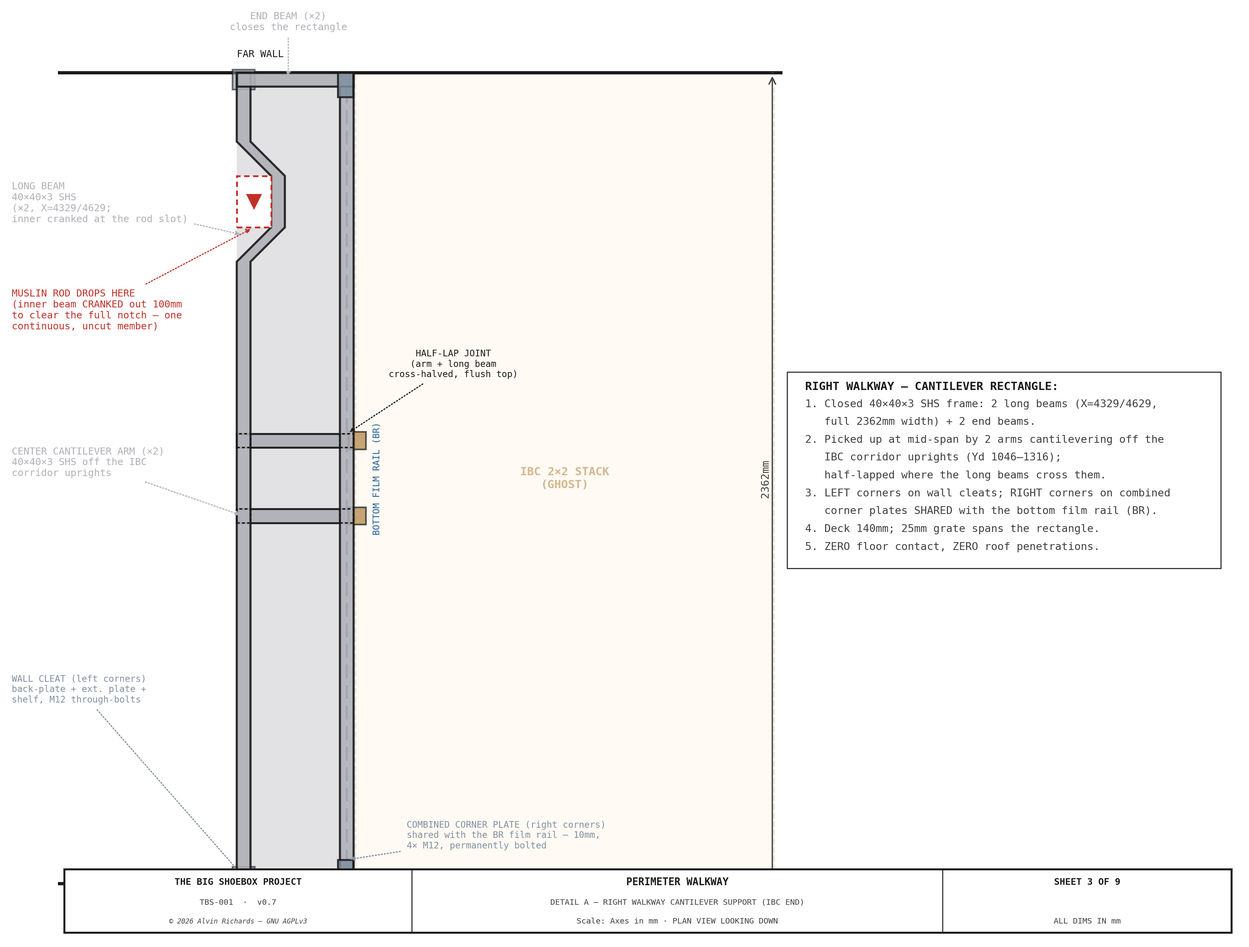
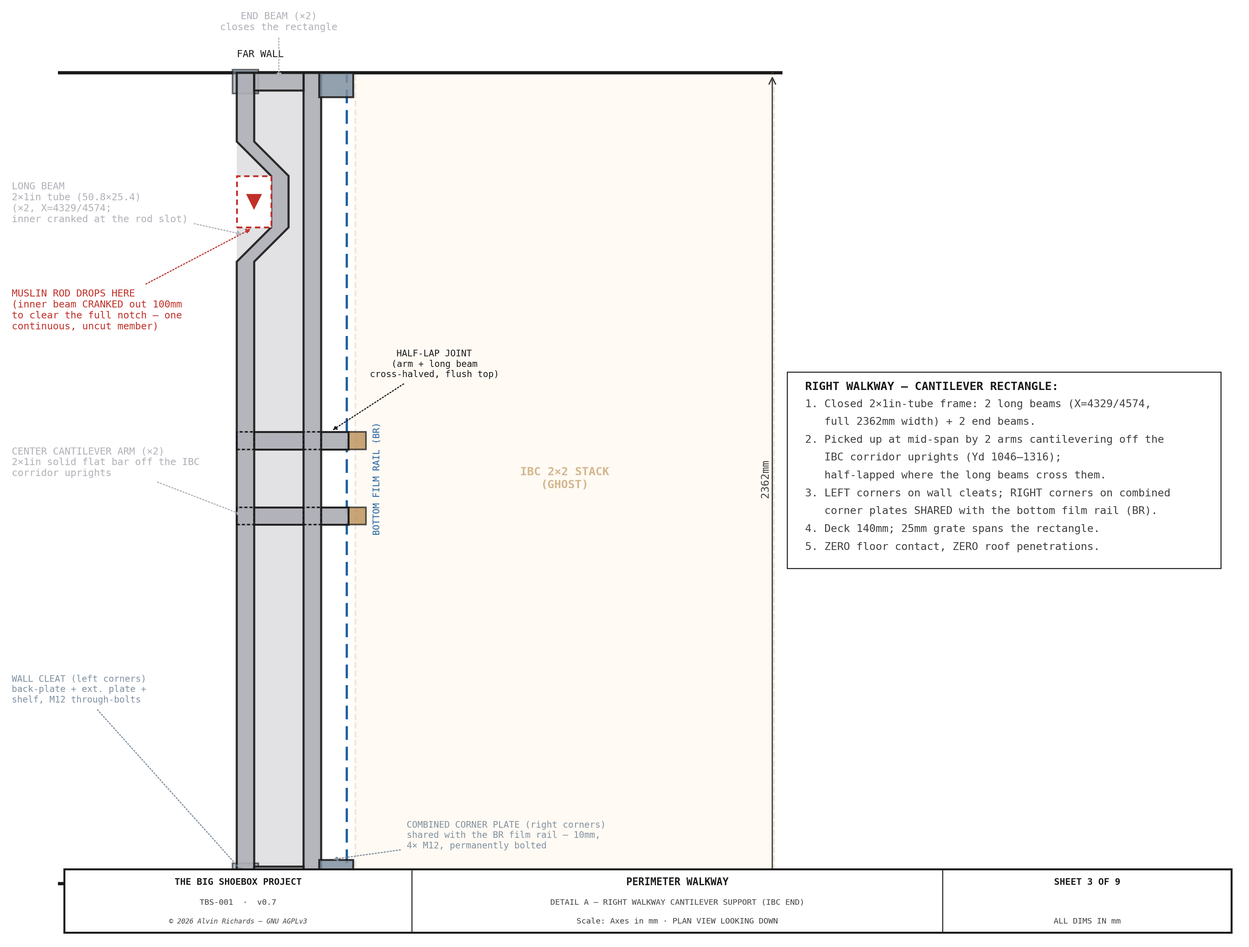
walkway blueprint Phase 1.1: promote RWK_* to tbs_constants + fix sheet3 drift
Move the 26-constant right-walkway RWK_* family out of generate_sketchup_model.py
into tbs_constants.py so the 2D fab drawings dimension from the same source as the
3D builder.  Models regenerate byte-identical (source_hash unchanged, no re-send);
trimmed the 5 now-unused model imports.  interference-report re-stamped (geometry
byte-identical: 12 interferences / 586 solids unchanged, only routing-sha bumps).

Repointing generate_walkway_diagram.py at the shared constants surfaced + fixed
fab-blocking drift on sheet 3 (right-walkway plan), all verified vs the live model:
  - beam section: '40x40x3 SHS' -> 2x1in tube (long/end) + 2x1in solid flat bar (arm), 50.8x25.4
  - deck width:   300 -> 245 (the F1-shortened right deck; WALKWAY_RIGHT_W)
  - beam layout:  outer beam flush-right-inboard at X4574 (RWK_BEARER_XS), end beams
                  butted BETWEEN the long beams (X4379-4523) — matches the model
  - sheet 1 RIGHT-WALKWAY label + overview note reconciled to 245 / 2x1in-tube

diff --git a/src/generators/generate_walkway_diagram.py b/src/generators/generate_walkway_diagram.py
@@ -18,8 +18,9 @@ Sheet 2 — Cross-section + bolt pattern (near walkway bracket):
   View B: Plate face showing triangular 3× M12 bolt pattern.
 
 Sheet 3 — Detail A: Right walkway cantilever support (IBC end)  [rev 12]:
-  300mm wide, same as near/far.  Plan view of the closed 40×40×3 SHS
-  rectangle (2 long beams at X=4329/4629 running the full container width +
+  245mm wide (F1-shortened from the standard 300 so the outer beam lands on the
+  combined-plate seat).  Plan view of the closed 2×1in-tube (50.8×25.4)
+  rectangle (2 long beams at X=4329/4574 running the full container width +
   2 short end beams), picked up at mid-span by 2 arms cantilevering off the
   IBC corridor uprights (half-lapped where the long beams cross), on wall
   cleats at the left corners and combined corner plates (shared with the
@@ -59,7 +60,7 @@ from matplotlib.patches import Rectangle, Circle, Polygon
 import os
 from tbs_title_block import title_block
 from tbs_drawing import draw_dim_h, draw_dim_v, leader, draw_notes, draw_legend
-from tbs_constants import C_LEN, C_WID, PROC_TRAY_X_L, PROC_TRAY_X_R, PROC_TRAY_W, PROC_TRAY_D, PROC_TRAY_YD_NEAR, PROC_TRAY_YD_FAR, PROC_TRAY_RIM, WALKWAY_W, WALKWAY_H, WALKWAY_GRATE_T, WALKWAY_BRACKET_H, WALKWAY_BRACKET_UPPER_BOLT_Z, WALKWAY_BRACKET_T, WALKWAY_BRACKET_SPACING, PIVOT_X, PIVOT_YD, SWING_LOCK_DEG, PANEL_CUT_YD, IBC_COL_X, IBC_W, CORRIDOR_YD_NEAR, CORRIDOR_YD_FAR, IBC_FRAME_RHS, RAIL_X_R, WALKWAY_NEAR_YD, WALKWAY_FAR_YD, WALKWAY_LEFT_X, WALKWAY_RIGHT_X, PROC_OPEN_X_L, PROC_OPEN_X_R, PROC_OPEN_YD_N, PROC_OPEN_YD_F, PROC_OPEN_AREA, PANEL_FLOOR_GAP, LEFT_WK_CANT_LEG_X, LEFT_WK_CANT_LEG_YDS, LEFT_WK_CANT_POST, LEFT_WK_CANT_POST_W, LEFT_WK_CANT_FOOT, LEFT_WK_CANT_FOOT_X0, LEFT_WK_CANT_FOOT_BOLT_N, LEFT_WK_CANT_FOOT_BOLT_DX, LEFT_WK_CANT_FOOT_BOLT_DY, LEFT_WK_CANT_ARM_Z0, LEFT_WK_CANT_ARM_W, LEFT_WK_CANT_ARM_W_WIDE, LEFT_WK_CANT_STD_REACH, LEFT_WK_CANT_WIDE_REACH, SPRAY_BAR_Z_BOT, SPRAY_BAR_Z_TOP, WALKWAY_NEAR_WIDE_W, WALKWAY_NEAR_WIDE_X_L, WALKWAY_NEAR_WIDE_X_R, WALKWAY_MAX_OVERHANG, WALKWAY_LEFT_WIDE_W, WALKWAY_LEFT_WIDE_YD_L, WALKWAY_LEFT_WIDE_YD_R, WALKWAY_WIDE_BRACKET_T, WALKWAY_WIDE_BRACKET_H, WALKWAY_MUSLIN_NOTCH_DX, WALKWAY_MUSLIN_NOTCH_DY, WALKWAY_MUSLIN_NOTCH_YD0, WALKWAY_MUSLIN_NOTCH_L_X0, WALKWAY_MUSLIN_NOTCH_R_X0, SPRAY_BAR_SLIT_W, EP_X, EP_W, BA_X, BA_W, EVAP_W, EVAP_D, EVAP_STOW_X, EVAP_STOW_YD, DIAGRAMS_DIR
+from tbs_constants import C_LEN, C_WID, PROC_TRAY_X_L, PROC_TRAY_X_R, PROC_TRAY_W, PROC_TRAY_D, PROC_TRAY_YD_NEAR, PROC_TRAY_YD_FAR, PROC_TRAY_RIM, WALKWAY_W, WALKWAY_H, WALKWAY_GRATE_T, WALKWAY_BRACKET_H, WALKWAY_BRACKET_UPPER_BOLT_Z, WALKWAY_BRACKET_T, WALKWAY_BRACKET_SPACING, PIVOT_X, PIVOT_YD, SWING_LOCK_DEG, PANEL_CUT_YD, IBC_COL_X, IBC_W, CORRIDOR_YD_NEAR, CORRIDOR_YD_FAR, IBC_FRAME_RHS, RAIL_X_R, WALKWAY_NEAR_YD, WALKWAY_FAR_YD, WALKWAY_LEFT_X, WALKWAY_RIGHT_X, WALKWAY_RIGHT_W, RWK_X_L, RWK_X_R, RWK_X_UP, RWK_BEARER_W, PROC_OPEN_X_L, PROC_OPEN_X_R, PROC_OPEN_YD_N, PROC_OPEN_YD_F, PROC_OPEN_AREA, PANEL_FLOOR_GAP, LEFT_WK_CANT_LEG_X, LEFT_WK_CANT_LEG_YDS, LEFT_WK_CANT_POST, LEFT_WK_CANT_POST_W, LEFT_WK_CANT_FOOT, LEFT_WK_CANT_FOOT_X0, LEFT_WK_CANT_FOOT_BOLT_N, LEFT_WK_CANT_FOOT_BOLT_DX, LEFT_WK_CANT_FOOT_BOLT_DY, LEFT_WK_CANT_ARM_Z0, LEFT_WK_CANT_ARM_W, LEFT_WK_CANT_ARM_W_WIDE, LEFT_WK_CANT_STD_REACH, LEFT_WK_CANT_WIDE_REACH, SPRAY_BAR_Z_BOT, SPRAY_BAR_Z_TOP, WALKWAY_NEAR_WIDE_W, WALKWAY_NEAR_WIDE_X_L, WALKWAY_NEAR_WIDE_X_R, WALKWAY_MAX_OVERHANG, WALKWAY_LEFT_WIDE_W, WALKWAY_LEFT_WIDE_YD_L, WALKWAY_LEFT_WIDE_YD_R, WALKWAY_WIDE_BRACKET_T, WALKWAY_WIDE_BRACKET_H, WALKWAY_MUSLIN_NOTCH_DX, WALKWAY_MUSLIN_NOTCH_DY, WALKWAY_MUSLIN_NOTCH_YD0, WALKWAY_MUSLIN_NOTCH_L_X0, WALKWAY_MUSLIN_NOTCH_R_X0, SPRAY_BAR_SLIT_W, EP_X, EP_W, BA_X, BA_W, EVAP_W, EVAP_D, EVAP_STOW_X, EVAP_STOW_YD, DIAGRAMS_DIR
 from tbs_constants import DIAGRAM_DPI
 
 # ── Palette ───────────────────────────────────────────────────────────────────
@@ -218,7 +219,7 @@ def sheet1():
         if name == "LEFT":
             lbl = f"LEFT WALKWAY\n{int(length)}\u00d7{WALKWAY_W}mm\nREMOVABLE LIFT-OUT"
         elif name == "RIGHT":
-            lbl = f"RIGHT WALKWAY\n{int(length)}\u00d7{WALKWAY_W}mm\nCANTILEVER"
+            lbl = f"RIGHT WALKWAY\n{int(length)}\u00d7{WALKWAY_RIGHT_W}mm\nCANTILEVER"
         elif name == "NEAR":
             lbl = f"NEAR WALKWAY\n{int(length)}\u00d7{WALKWAY_W}mm\n(WIDENED TO {WALKWAY_NEAR_WIDE_W}mm\nAT EP/BATT ZONE)"
         else:
@@ -496,7 +497,7 @@ def sheet1():
         f"   seam placed away from the bump shoulders (molded GRP max 3'\u00d710').",
         f"3. Near/far: wall-cantilevered brackets ({WALKWAY_BRACKET_T}mm gussets) at {WALKWAY_BRACKET_SPACING}mm centers.",
         f"   Start at X={LXR} (butt joint), clear of the door-end panel swing sweep.",
-        f"4. Right: CANTILEVER RECTANGLE \u2014 closed 40\u00d740 SHS frame on 2 arms off the IBC uprights + combined corner plates.",
+        f"4. Right: CANTILEVER RECTANGLE \u2014 closed 2\u00d71in-tube frame on 2 arms off the IBC uprights + combined corner plates.",
         f"5. Left: REMOVABLE LIFT-OUT \u2014 5 FLOOR-LEG CANTILEVER brackets on bare floor (X140, outside tray),",
         f"   arms reach the grate inner edge (X={LXR}); 3 extend to X770 on the drum-exit punch-out. See sheets 5/6.",
         f"6. ZERO tray contact \u2014 all supports outside or above tray. Open area: {PROC_OPEN_AREA:.1f} m\u00b2.",
@@ -1088,7 +1089,7 @@ def sheet2():
 # SHEET 3 — Detail A: Right Walkway Cantilever Support (IBC End)  [rev 12]
 #
 # PLAN view (looking down): X horizontal, Yd vertical.  The right walkway is a
-# closed 40×40 SHS rectangle (2 long beams at X=4329/4629 running full width +
+# closed 2×1in-tube rectangle (2 long beams at X=4329/4574 running full width +
 # 2 short end beams) picked up at mid-span by 2 arms cantilevering off the IBC
 # corridor uprights, on wall cleats at the left corners and combined corner
 # plates (shared with the bottom film rail) at the right corners.  Replaces the
@@ -1101,12 +1102,12 @@ def sheet3():
     """
 
     # ── Geometry ─────────────────────────────────────────────────────────────
-    SHS       = 40                            # 40×40×3 SHS section
-    WK_L_X    = WALKWAY_RIGHT_X               # 4329 — left long beam
-    WK_R_X    = WALKWAY_RIGHT_X + WALKWAY_W   # 4629 — right long beam
+    SHS       = RWK_BEARER_W                  # 50.8 — 2×1in section face shown in plan (long beam, end beam & arm all present their 2in face top-down)
+    WK_L_X    = RWK_X_L                       # 4329 — inner long beam / deck left edge
+    WK_R_X    = RWK_X_R                       # 4574 — outer long beam / deck right edge (F1-shortened; lands on the combined-plate seat)
     WALL_X    = RAIL_X_R                      # 4649 — right side-wall station (film rail / combined plate)
-    UP_X0     = IBC_COL_X - 20                # 4654 — deep-box FRONT upright (arm clamps here; reconciled from tote-col 4674)
-    ARM_X     = IBC_COL_X - 20                # 4654 — arm root station (= RWK_X_UP; reconciled from 4734)
+    UP_X0     = RWK_X_UP                      # 4654 — deep-box FRONT upright (arm clamps here)
+    ARM_X     = RWK_X_UP                      # 4654 — arm root station
     UP_YDS    = [(CORRIDOR_YD_NEAR, CORRIDOR_YD_NEAR + IBC_FRAME_RHS),  # near upright 1046–1096
                  (CORRIDOR_YD_FAR - IBC_FRAME_RHS, CORRIDOR_YD_FAR)]     # far  upright 1266–1316
     ARM_YDS   = [yc + IBC_FRAME_RHS / 2 for (yc, _) in UP_YDS]           # arm centerlines
@@ -1156,7 +1157,7 @@ def sheet3():
     # ── Closed SHS rectangle: 2 long beams + 2 end beams ─────────────────────
     # Outer long beam — straight; inner long beam — CRANKED outboard around the muslin-drop rod
     # slot (mirrors the model's _rwk_inner_beam_cranked: jog = notch depth, 100mm angled ramps).
-    ax.add_patch(Rectangle(((WK_R_X), (0)), (SHS), (C_WID),
+    ax.add_patch(Rectangle(((WK_R_X - SHS), (0)), (SHS), (C_WID),
                             fc=C_STEEL, ec=C_OUT, lw=1.3, zorder=8, alpha=0.9))
     cN0 = WALKWAY_MUSLIN_NOTCH_YD0
     cN1 = WALKWAY_MUSLIN_NOTCH_YD0 + WALKWAY_MUSLIN_NOTCH_DY
@@ -1167,8 +1168,8 @@ def sheet3():
     inner_beam = [(xi, 0), (xi, cY0), (xi + cDX, cN0), (xi + cDX, cN1), (xi, cY1), (xi, C_WID),
                   (xo, C_WID), (xo, cY1), (xo + cDX, cN1), (xo + cDX, cN0), (xo, cY0), (xo, 0)]
     ax.add_patch(Polygon(inner_beam, closed=True, fc=C_STEEL, ec=C_OUT, lw=1.3, zorder=8, alpha=0.9))
-    for ey in [0, C_WID - SHS]:
-        ax.add_patch(Rectangle(((WK_L_X), (ey)), ((WK_R_X + SHS) - WK_L_X), (SHS),
+    for ey in [0, C_WID - SHS]:   # end beams butt BETWEEN the long beams (inner faces), matching the model
+        ax.add_patch(Rectangle(((WK_L_X + SHS), (ey)), ((WK_R_X - SHS) - (WK_L_X + SHS)), (SHS),
                                 fc=C_STEEL, ec=C_OUT, lw=1.3, zorder=8, alpha=0.9))
 
     # Muslin-rod drop slot — vacated by the crank (clear vertical passage at the tray edge)
@@ -1181,7 +1182,7 @@ def sheet3():
 
     leader(ax, (WK_L_X + SHS / 2), (C_WID * 0.80),
            (GUT_X - 150), (C_WID * 0.84),
-           f"LONG BEAM\n40×40×3 SHS\n(×2, X={WK_L_X}/{WK_R_X};\ninner cranked at the rod slot)",
+           f"LONG BEAM\n2×1in tube (50.8×25.4)\n(×2, X={WK_L_X}/{WK_R_X};\ninner cranked at the rod slot)",
            color=C_STEEL, fs=6, ha="left", va="center", arrow_style="-|>", font=FONT)
     leader(ax, ((WK_L_X + WK_R_X) / 2), (C_WID - SHS / 2),
            ((WK_L_X + WK_R_X) / 2), (C_WID + 120),
@@ -1194,12 +1195,12 @@ def sheet3():
                                 fc=C_IBC, ec=C_OUT, lw=1.0, zorder=6, alpha=0.7))
         ax.add_patch(Rectangle(((WK_L_X), (ay - SHS / 2)), (ARM_X - WK_L_X), (SHS),
                                 fc=C_STEEL, ec=C_OUT, lw=1.2, zorder=7, alpha=0.95))
-        for bx in [WK_L_X, WK_R_X]:
+        for bx in [WK_L_X, WK_R_X - SHS]:   # half-lap boxes on the two long beams (inner flush-left, outer flush-right)
             ax.add_patch(Rectangle(((bx), (ay - SHS / 2)), (SHS), (SHS),
                                     fc="none", ec=C_OUT, lw=0.9, ls=(0, (2, 1.5)), zorder=9))
     leader(ax, (WK_L_X + SHS / 2), (ARM_YDS[0]),
            (GUT_X - 150), (C_WID * 0.52),
-           "CENTER CANTILEVER ARM (×2)\n40×40×3 SHS off the IBC\ncorridor uprights",
+           "CENTER CANTILEVER ARM (×2)\n2×1in solid flat bar off the IBC\ncorridor uprights",
            color=C_STEEL, fs=6, ha="left", va="center", arrow_style="-|>", font=FONT)
     leader(ax, (WK_R_X + SHS / 2), (ARM_YDS[1] + SHS / 2),
            (WK_R_X + 330), (ARM_YDS[1] + 180),
@@ -1233,7 +1234,7 @@ def sheet3():
 
     # ── Dimensions ───────────────────────────────────────────────────────────
     draw_dim_h(ax, (WK_L_X), (WK_R_X), (-90),
-               f"{WALKWAY_W}mm", offset=(9), fs=7, above=False, font=FONT)
+               f"{WALKWAY_RIGHT_W}mm", offset=(9), fs=7, above=False, font=FONT)
     # Label to the LEFT (right=False) so it doesn't overhang X_HI — otherwise the dim text
     # pokes past the axes box and the (transAxes) title block reads narrower than the crop.
     draw_dim_v(ax, (PLAN_X_R - 25), (0), (C_WID),
@@ -1242,7 +1243,7 @@ def sheet3():
     # ── Notes ────────────────────────────────────────────────────────────────
     notes = [
         "RIGHT WALKWAY — CANTILEVER RECTANGLE:",
-        f"1. Closed 40×40×3 SHS frame: 2 long beams (X={WK_L_X}/{WK_R_X},",
+        f"1. Closed 2×1in-tube frame: 2 long beams (X={WK_L_X}/{WK_R_X},",
         f"   full {C_WID}mm width) + 2 end beams.",
         "2. Picked up at mid-span by 2 arms cantilevering off the",
         f"   IBC corridor uprights (Yd {CORRIDOR_YD_NEAR}–{CORRIDOR_YD_FAR});",

diff --git a/src/models/generate_sketchup_model.py b/src/models/generate_sketchup_model.py
@@ -38,7 +38,7 @@ import argparse
 import contextlib
 
 sys.path.insert(0, os.path.join(os.path.dirname(__file__), "..", "generators"))
-from tbs_constants import C_LEN, C_WID, C_HGT, WALL_T, PROC_TRAY_X_L, PROC_TRAY_X_R, PROC_TRAY_YD_NEAR, PROC_TRAY_YD_FAR, PROC_TRAY_RIM, PROC_TRAY_FLOOR_Z_LOW, tray_floor_z, WALKWAY_W, WALKWAY_H, WALKWAY_GRATE_T, WALKWAY_FAR_YD, WALKWAY_RIGHT_X, WALKWAY_RIGHT_W, WALKWAY_LEFT_X, LEFT_WK_CANT_ARM_Z0, WALKWAY_BRACKET_T, WALKWAY_BRACKET_H, CONTAINER_RIB_SPACING, WALKWAY_NEAR_WIDE_W, WALKWAY_NEAR_WIDE_X_L, WALKWAY_NEAR_WIDE_X_R, WALKWAY_LEFT_WIDE_W, WALKWAY_LEFT_WIDE_YD_L, WALKWAY_LEFT_WIDE_YD_R, CORRIDOR_YD_NEAR, CORRIDOR_YD_FAR, PH_X, PH_H, PH_D, FP_X_L, FP_X_R, FP_H, FP_Y, RAIL_X_L, RAIL_X_R, RAIL_OFF_BOT, FP_RAIL_WEB, FP_RAIL_FLANGE, FP_RAIL_BUILD_BOT, FP_RAIL_GUIDE_GAP, FP_RAIL_ZC_BOT, FP_RAIL_ZC_TOP, FP_FILM_TOP, BAY_FRONT_X, BAY_BACK_X, BAY_WALL_T, PANEL_CENTER_T, PANEL_CORNER_T, PANEL_FLOOR_GAP, PANEL_FAN_BAND_Z, PANEL_CORNER_YD_L, PANEL_CORNER_YD_R, PIVOT_X, PIVOT_YD, SWING_LOCK_DEG, PANEL_CUT_YD, FAR_STRIP_YD0, PIVOT_POST_OD, DRUM_CAGE_X0, DRUM_CAGE_X1, DRUM_CAGE_YD_L, DRUM_CAGE_YD_R, WALKWAY_NEAR_LIFTOUT_X_R, BB_OD, BB_H, PUMP_H_HI, EQPANEL_X, EQPANEL_T, EQPANEL_YD, EQPANEL_YD_SPAN, IBC_COL_X, IBC_W, IBC_D, IBC_H_1000, IBC_PALLET_H, IBC_BOTTLE_INSET, BLUE_IBC_Y, BROWN_IBC_Y, IBC_FAR_Y, WASTE_IBC_Y, IBC_FRAME_RHS, IBC_FRONT_BAR_D, IBC_FOOT_PLATE, IBC_FOOT_PLATE_T, IBC_FOOT_BOLT_PCD, FP_CORNER_SEAT_PLATE_W, FP_CORNER_SEAT_PLATE_T, FP_CORNER_SEAT_PROJ, FP_CORNER_SEAT_T, DRUM_CX, DRUM_CY, DRUM_R, DRUM_H_LT, LT_HOUSING_R, LT_HOUSING_T, LT_DRUM_OR, LT_DRUM_T, LT_CAP_T, LT_OPENING_DEG, WALKWAY_MUSLIN_NOTCH_DY, WALKWAY_MUSLIN_NOTCH_YD0, WALKWAY_MUSLIN_NOTCH_L_X0, WALKWAY_MUSLIN_NOTCH_R_X0, WALKWAY_MUSLIN_NOTCH_R_X1, EP_X, EP_W, EP_H_LO, EP_H_HI, ENCL_SHELL_D, PWR_PANEL_X, PWR_PANEL_W, PWR_PANEL_H, PWR_PANEL_Z, SOLAR_PANEL_L, SOLAR_PANEL_W, SOLAR_PANEL_T, SOLAR_N, SOLAR_TILT_DEG, SOLAR_GAP, SOLAR_ARRAY_X, SOLAR_ARRAY_YD, SOLAR_ARRAY_Z, SHELF_X_L, SHELF_X_R, SHELF_W, SHELF_H, SHELF_T, SHELF_DEPTH, SHELF_YD_NEAR, SHELF_YD_FAR, SHELF_STOW_TOP_Z, PULL_CORD_BOTTOM_Z, EVAP_W, EVAP_D, EVAP_H, EVAP_DUCT_X, EVAP_DUCT_Z, EVAP_DUCT_D, INVERTER_X, INVERTER_Z, INVERTER_W, INVERTER_H, INVERTER_D, FAN_DIAM, FAN_BODY_D, FAN_A_YD, FAN_A_H, FAN_B_YD, FAN_B_H, DUCT_DEPTH, DUCT_HEIGHT, BV05_X, TAP_X, TAP_Z, TAP_PIPE_OD, PUMP_PIPE_OD, SPRAY_BAR_FEED_Z, PROC_TRAY_DRAIN_X, PROC_TRAY_DRAIN_YD, PROC_TRAY_SUMP_Z, PWP_FILTER_X1, PWP_FILTER_X2, PWP_FILTER_X3, PWP_FILTER_TOP_Z, PWP_FILTER_YD, PWP_P02_X, PWP_SV01_X, PWP_WAIST_Z, PWP_SV01_Z, PWP_PANEL_X0, PWP_PANEL_X1, PWP_PANEL_Z0, PWP_SROW_Z0, PWP_ACC2_X, PWP_ACC2_Z0
+from tbs_constants import C_LEN, C_WID, C_HGT, WALL_T, PROC_TRAY_X_L, PROC_TRAY_X_R, PROC_TRAY_YD_NEAR, PROC_TRAY_YD_FAR, PROC_TRAY_RIM, PROC_TRAY_FLOOR_Z_LOW, tray_floor_z, WALKWAY_W, WALKWAY_H, WALKWAY_GRATE_T, WALKWAY_FAR_YD, WALKWAY_RIGHT_X, WALKWAY_RIGHT_W, WALKWAY_LEFT_X, WALKWAY_BRACKET_T, WALKWAY_BRACKET_H, CONTAINER_RIB_SPACING, WALKWAY_NEAR_WIDE_W, WALKWAY_NEAR_WIDE_X_L, WALKWAY_NEAR_WIDE_X_R, WALKWAY_LEFT_WIDE_W, WALKWAY_LEFT_WIDE_YD_L, WALKWAY_LEFT_WIDE_YD_R, PH_X, PH_H, PH_D, FP_X_L, FP_X_R, FP_H, FP_Y, RAIL_X_L, RAIL_X_R, RAIL_OFF_BOT, FP_RAIL_WEB, FP_RAIL_FLANGE, FP_RAIL_BUILD_BOT, FP_RAIL_GUIDE_GAP, FP_RAIL_ZC_BOT, FP_RAIL_ZC_TOP, FP_FILM_TOP, BAY_FRONT_X, BAY_BACK_X, BAY_WALL_T, PANEL_CENTER_T, PANEL_CORNER_T, PANEL_FLOOR_GAP, PANEL_FAN_BAND_Z, PANEL_CORNER_YD_L, PANEL_CORNER_YD_R, PIVOT_X, PIVOT_YD, SWING_LOCK_DEG, PANEL_CUT_YD, FAR_STRIP_YD0, PIVOT_POST_OD, DRUM_CAGE_X0, DRUM_CAGE_X1, DRUM_CAGE_YD_L, DRUM_CAGE_YD_R, WALKWAY_NEAR_LIFTOUT_X_R, BB_OD, BB_H, PUMP_H_HI, EQPANEL_X, EQPANEL_T, EQPANEL_YD, EQPANEL_YD_SPAN, IBC_COL_X, IBC_W, IBC_D, IBC_H_1000, IBC_PALLET_H, IBC_BOTTLE_INSET, BLUE_IBC_Y, BROWN_IBC_Y, IBC_FAR_Y, WASTE_IBC_Y, IBC_FRAME_RHS, IBC_FRONT_BAR_D, IBC_FOOT_PLATE, IBC_FOOT_PLATE_T, IBC_FOOT_BOLT_PCD, FP_CORNER_SEAT_PLATE_W, FP_CORNER_SEAT_PLATE_T, FP_CORNER_SEAT_PROJ, FP_CORNER_SEAT_T, DRUM_CX, DRUM_CY, DRUM_R, DRUM_H_LT, LT_HOUSING_R, LT_HOUSING_T, LT_DRUM_OR, LT_DRUM_T, LT_CAP_T, LT_OPENING_DEG, WALKWAY_MUSLIN_NOTCH_DY, WALKWAY_MUSLIN_NOTCH_YD0, WALKWAY_MUSLIN_NOTCH_L_X0, WALKWAY_MUSLIN_NOTCH_R_X0, WALKWAY_MUSLIN_NOTCH_R_X1, EP_X, EP_W, EP_H_LO, EP_H_HI, ENCL_SHELL_D, PWR_PANEL_X, PWR_PANEL_W, PWR_PANEL_H, PWR_PANEL_Z, SOLAR_PANEL_L, SOLAR_PANEL_W, SOLAR_PANEL_T, SOLAR_N, SOLAR_TILT_DEG, SOLAR_GAP, SOLAR_ARRAY_X, SOLAR_ARRAY_YD, SOLAR_ARRAY_Z, SHELF_X_L, SHELF_X_R, SHELF_W, SHELF_H, SHELF_T, SHELF_DEPTH, SHELF_YD_NEAR, SHELF_YD_FAR, SHELF_STOW_TOP_Z, PULL_CORD_BOTTOM_Z, EVAP_W, EVAP_D, EVAP_H, EVAP_DUCT_X, EVAP_DUCT_Z, EVAP_DUCT_D, INVERTER_X, INVERTER_Z, INVERTER_W, INVERTER_H, INVERTER_D, FAN_DIAM, FAN_BODY_D, FAN_A_YD, FAN_A_H, FAN_B_YD, FAN_B_H, DUCT_DEPTH, DUCT_HEIGHT, BV05_X, TAP_X, TAP_Z, TAP_PIPE_OD, PUMP_PIPE_OD, SPRAY_BAR_FEED_Z, PROC_TRAY_DRAIN_X, PROC_TRAY_DRAIN_YD, PROC_TRAY_SUMP_Z, PWP_FILTER_X1, PWP_FILTER_X2, PWP_FILTER_X3, PWP_FILTER_TOP_Z, PWP_FILTER_YD, PWP_P02_X, PWP_SV01_X, PWP_WAIST_Z, PWP_SV01_Z, PWP_PANEL_X0, PWP_PANEL_X1, PWP_PANEL_Z0, PWP_SROW_Z0, PWP_ACC2_X, PWP_ACC2_Z0, RWK_X_L, RWK_X_R, RWK_GRATE_Z, RWK_ARM_BOT, RWK_ARM_TOP, RWK_AH, RWK_ARM_W, RWK_HL_TIP, RWK_HL_POST, RWK_BEARER_W, RWK_BEARER_XS, RWK_BEARER_Z0, RWK_X_UP, RWK_UP_YDS, RWK_J6_BOLT_ZS, RWK_J6_EP_H, RWK_RIBBON_NOTCH_YDS, RWK_RIBBON_NOTCH_W, RWK_NOTCH_FLOOR, RWK_CRANK_N0, RWK_CRANK_N1, RWK_CRANK_DX, RWK_CRANK_Y0, RWK_CRANK_Y1
 
 # Material colors used only by the 3D model (not in tbs_constants).
 C_STEEL = "#B0B0B8"     # steel sections (rails, mount plate, brackets, rack)
@@ -660,56 +660,12 @@ def processing_tray(alpha=None):
 # ── Walkways ─────────────────────────────────────────────────────────────────
 
 # ── Right walkway — CANTILEVER-RECTANGLE support (rev12; replaces the ceiling hangers) ──
+# The right-walkway geometry constants (RWK_*) were PROMOTED to tbs_constants.py (Phase 1,
+# 2026-08-18) and are imported above — so the 2D fab drawings dimension the right walkway from
+# the SAME source as this builder (no more hardcoded ARM_X / edge literals in the diagram).
 # A closed rectangle (2 long beams + 2 end beams) under the deck, supported at mid-span by 2
-# CENTER cantilever arms off the IBC corridor uprights (half-lapped where the long beams cross).
-# LEFT corners on wall cleats; RIGHT corners on a COMBINED plate shared with the bottom film
-# rail. Single-sourced here; the focused walkway + film-plane study models reuse these.
-RWK_X_L = WALKWAY_RIGHT_X                              # 4329 — deck left edge
-RWK_X_R = WALKWAY_RIGHT_X + WALKWAY_RIGHT_W            # 4629 — deck right edge
-RWK_GRATE_Z = WALKWAY_H - WALKWAY_GRATE_T              # 115 — grate bottom
-RWK_ARM_BOT, RWK_ARM_TOP = LEFT_WK_CANT_ARM_Z0, RWK_GRATE_Z   # arm underside Z89.6 (matches the LEFT arm; single-sourced) — 11.6mm over the full-width 1½ spray beam
-RWK_AH = RWK_ARM_TOP - RWK_ARM_BOT                     # 25.4 (2×1in section, 1in deep — #26)
-RWK_ARM_W = 50.8                                       # 2in — arm width in Yd (2×1in section)
-# Arm = SOLID 2×1 flat bar (a notched partial section must be solid to be strong — a notched HOLLOW
-# tube opens into a weak channel; the un-notched LEFT cantilevers stay tube). Half-lap split REBALANCED
-# to the moment: DEEP arm notch at the tip (low moment) and SHALLOW at the post end (high moment → the
-# OUTER beam takes the deep notch). Sized in ibc_frame_load.arm_notch_check().
-RWK_HL_TIP  = round(RWK_ARM_BOT + 5.4, 1)             # 95.0 — TIP crossing split: arm keeps 5.4 (M≈30 Nm); inner beam keeps 20
-RWK_HL_POST = round(RWK_ARM_BOT + 16.0, 1)           # 105.6 — POST crossing split: arm keeps 16 (M≈334 Nm); outer beam notched to 9.4
-RWK_HL = RWK_HL_TIP                                    # legacy alias / default split
-RWK_BEARER_W = 50.8                                    # 2in — long-beam width in X (2×1in section)
-RWK_BEARER_XS = (RWK_X_L, RWK_X_R - RWK_BEARER_W)      # long-beam left edges
-RWK_BEARER_Z0 = RWK_ARM_TOP - RWK_AH                   # 89.6 — long-beam soffit (2×1in, 1in deep — #26: 2×⅞ non-stock). Deck kept at 140 (Option B), so 11.6mm spray-beam clearance. Stiffness held by the 2 mid-span center arms (built below).
-RWK_X_UP = IBC_COL_X - 20                              # 4654 — deep-box FRONT upright (= cp.FRONT_X); reconciled from the stale +60/4734 portal (flag 4)
-RWK_UP_YDS = (CORRIDOR_YD_NEAR, CORRIDOR_YD_FAR - IBC_FRAME_RHS)   # 1046, 1266
-# J6 BEARING-TYPE end-plate.  BOTH M12 sit ABOVE the arm weld toe (Z120) as a tension bolt group; the taller
-# plate bears compression at the bottom against the upright.  This clears the 3-way corner congestion — the
-# corridor bottom frame X-rail (Z12–63) runs below with NO bolt near it, and neither bolt fouls the welded
-# arm (Z90–115).  A walkway support is DOWN-load only (no uplift), so the asymmetric bearing-type joint is
-# appropriate (Alvin 2026-08-17).  The plate top rises to Z185 (bottom unchanged at Z37).
-RWK_J6_BOLT_ZS = (RWK_ARM_TOP + 25.0, RWK_ARM_TOP + 55.0)   # Z140 / Z170 — both above the arm; 30mm apart
-RWK_J6_EP_H    = 155.0                                       # end-plate height: top (Z192) clears the upper bolt (Z170) by 22mm ≥ 1.5·D (M12 edge), and the base bears at Z37 — verified by check_interference.py --bolts
-# Outer long beam (X4589) OPEN-TOP NOTCHES — one per under-walkway ribbon lane where the FLUSH pipe crosses
-# the beam into the corridor.  The carriage crown (Z66) to beam soffit (Z80) gap is too tight for the pipe to
-# pass under, so the beam's top web is slotted instead (Z92-115), leaving the Z80-92 bottom web intact.  These
-# Yds are the single source the corridor pipe routing (cp.ribbon_run / the sump line) reads back for its
-# crossing Yd, so the notches and the pipes can't drift apart.
-RWK_RIBBON_NOTCH_YDS = [1110, 1132, 1194, 1241]        # lanes 0,1,2,3 corridor-crossing Yd (index-matched to cp.RIBBON_LANE_X)
-RWK_RIBBON_NOTCH_W   = 34                              # Yd width per notch (pipe OD 21 + clearance)
-RWK_NOTCH_FLOOR      = RWK_GRATE_Z - PUMP_PIPE_OD - 2  # 92 — notch floor, 2mm below the flush pipe soffit (Z94)
-
-# Inner long beam is CRANKED outboard around the muslin-drop rod slot: the rigid muslin batten drops
-# straight down at the tray edge (X=RWK_X_L), which sits over the inner beam — so over the notch Yd the
-# beam is jogged outboard by the full notch depth (its inboard face moves R_X0→R_X1) with angled ramps,
-# vacating the entire notch footprint for the rod while the beam stays ONE continuous (uncut) member.
-# Right walkway only — the left notch falls between floor-leg brackets, no beam under it. Tied to the
-# muslin-notch constants so the crank can't drift from the notch it clears.
-RWK_CRANK_N0   = WALKWAY_MUSLIN_NOTCH_YD0                              # 1912 — notch Yd start
-RWK_CRANK_N1   = WALKWAY_MUSLIN_NOTCH_YD0 + WALKWAY_MUSLIN_NOTCH_DY    # 2062 — notch Yd end
-RWK_CRANK_DX   = WALKWAY_MUSLIN_NOTCH_R_X1 - WALKWAY_MUSLIN_NOTCH_R_X0 # 100 — jog = notch depth (clears the full notch)
-RWK_CRANK_RAMP = 100                                                  # angled ramp Yd length each side
-RWK_CRANK_Y0   = RWK_CRANK_N0 - RWK_CRANK_RAMP                        # 1812 — ramp-out start
-RWK_CRANK_Y1   = RWK_CRANK_N1 + RWK_CRANK_RAMP                        # 2162 — ramp-in end
+# CENTER cantilever arms off the IBC corridor uprights; LEFT corners on wall cleats, RIGHT corners
+# on a COMBINED plate shared with the bottom film rail.  The builder below reads the RWK_* imports.
 
 
 def _yd_split(y0, y1, cuts):

diff --git a/src/generators/tbs_constants.py b/src/generators/tbs_constants.py
@@ -1014,6 +1014,60 @@ WALKWAY_MUSLIN_NOTCH_L_X1 = WALKWAY_LEFT_X + WALKWAY_W                          
 WALKWAY_MUSLIN_NOTCH_L_X0 = WALKWAY_MUSLIN_NOTCH_L_X1 - WALKWAY_MUSLIN_NOTCH_DX     # 370 — left notch cut in from X470
 WALKWAY_MUSLIN_NOTCH_R_X0 = WALKWAY_RIGHT_X                                        # 4329 — right walkway INBOARD (tray) edge
 WALKWAY_MUSLIN_NOTCH_R_X1 = WALKWAY_MUSLIN_NOTCH_R_X0 + WALKWAY_MUSLIN_NOTCH_DX     # 4429 — right notch cut in from X4329
+
+# ── Right walkway — CANTILEVER-RECTANGLE support (rev12; replaces the ceiling hangers) ──
+# A closed rectangle (2 long beams + 2 end beams) under the deck, supported at mid-span by 2
+# CENTER cantilever arms off the IBC corridor uprights (half-lapped where the long beams cross).
+# LEFT corners on wall cleats; RIGHT corners on a COMBINED plate shared with the bottom film
+# rail.  Single-sourced here so the 3D builders (overview / walkway / corridor-water) AND the 2D
+# fab drawings dimension the right walkway from ONE place (promoted from generate_sketchup_model.py,
+# Phase 1, 2026-08-18).
+RWK_X_L = WALKWAY_RIGHT_X                              # 4329 — deck left edge
+RWK_X_R = WALKWAY_RIGHT_X + WALKWAY_RIGHT_W            # 4574 — deck right edge (= WALKWAY_RIGHT_X_R, lands on the combined-plate seat; F1-shortened deck = 245mm)
+RWK_GRATE_Z = WALKWAY_H - WALKWAY_GRATE_T              # 115 — grate bottom
+RWK_ARM_BOT, RWK_ARM_TOP = LEFT_WK_CANT_ARM_Z0, RWK_GRATE_Z   # arm underside Z89.6 (matches the LEFT arm; single-sourced) — 11.6mm over the full-width 1½ spray beam
+RWK_AH = RWK_ARM_TOP - RWK_ARM_BOT                     # 25.4 (2×1in section, 1in deep — #26)
+RWK_ARM_W = 50.8                                       # 2in — arm width in Yd (2×1in section)
+# Arm = SOLID 2×1 flat bar (a notched partial section must be solid to be strong — a notched HOLLOW
+# tube opens into a weak channel; the un-notched LEFT cantilevers stay tube). Half-lap split REBALANCED
+# to the moment: DEEP arm notch at the tip (low moment) and SHALLOW at the post end (high moment → the
+# OUTER beam takes the deep notch). Sized in ibc_frame_load.arm_notch_check().
+RWK_HL_TIP  = round(RWK_ARM_BOT + 5.4, 1)             # 95.0 — TIP crossing split: arm keeps 5.4 (M≈30 Nm); inner beam keeps 20
+RWK_HL_POST = round(RWK_ARM_BOT + 16.0, 1)           # 105.6 — POST crossing split: arm keeps 16 (M≈334 Nm); outer beam notched to 9.4
+RWK_HL = RWK_HL_TIP                                    # legacy alias / default split
+RWK_BEARER_W = 50.8                                    # 2in — long-beam width in X (2×1in section)
+RWK_BEARER_XS = (RWK_X_L, RWK_X_R - RWK_BEARER_W)      # long-beam left edges
+RWK_BEARER_Z0 = RWK_ARM_TOP - RWK_AH                   # 89.6 — long-beam soffit (2×1in, 1in deep — #26: 2×⅞ non-stock). Deck kept at 140 (Option B), so 11.6mm spray-beam clearance. Stiffness held by the 2 mid-span center arms (built below).
+RWK_X_UP = IBC_COL_X - 20                              # 4654 — deep-box FRONT upright (= cp.FRONT_X); reconciled from the stale +60/4734 portal (flag 4)
+RWK_UP_YDS = (CORRIDOR_YD_NEAR, CORRIDOR_YD_FAR - IBC_FRAME_RHS)   # 1046, 1266
+# J6 BEARING-TYPE end-plate.  BOTH M12 sit ABOVE the arm weld toe (Z120) as a tension bolt group; the taller
+# plate bears compression at the bottom against the upright.  This clears the 3-way corner congestion — the
+# corridor bottom frame X-rail (Z12–63) runs below with NO bolt near it, and neither bolt fouls the welded
+# arm (Z90–115).  A walkway support is DOWN-load only (no uplift), so the asymmetric bearing-type joint is
+# appropriate (Alvin 2026-08-17).  The plate top rises to Z185 (bottom unchanged at Z37).
+RWK_J6_BOLT_ZS = (RWK_ARM_TOP + 25.0, RWK_ARM_TOP + 55.0)   # Z140 / Z170 — both above the arm; 30mm apart
+RWK_J6_EP_H    = 155.0                                       # end-plate height: top (Z192) clears the upper bolt (Z170) by 22mm ≥ 1.5·D (M12 edge), and the base bears at Z37 — verified by check_interference.py --bolts
+# Outer long beam (X4589) OPEN-TOP NOTCHES — one per under-walkway ribbon lane where the FLUSH pipe crosses
+# the beam into the corridor.  The carriage crown (Z66) to beam soffit (Z80) gap is too tight for the pipe to
+# pass under, so the beam's top web is slotted instead (Z92-115), leaving the Z80-92 bottom web intact.  These
+# Yds are the single source the corridor pipe routing (cp.ribbon_run / the sump line) reads back for its
+# crossing Yd, so the notches and the pipes can't drift apart.
+RWK_RIBBON_NOTCH_YDS = [1110, 1132, 1194, 1241]        # lanes 0,1,2,3 corridor-crossing Yd (index-matched to cp.RIBBON_LANE_X)
+RWK_RIBBON_NOTCH_W   = 34                              # Yd width per notch (pipe OD 21 + clearance)
+RWK_NOTCH_FLOOR      = RWK_GRATE_Z - PUMP_PIPE_OD - 2  # 92 — notch floor, 2mm below the flush pipe soffit (Z94)
+# Inner long beam is CRANKED outboard around the muslin-drop rod slot: the rigid muslin batten drops
+# straight down at the tray edge (X=RWK_X_L), which sits over the inner beam — so over the notch Yd the
+# beam is jogged outboard by the full notch depth (its inboard face moves R_X0→R_X1) with angled ramps,
+# vacating the entire notch footprint for the rod while the beam stays ONE continuous (uncut) member.
+# Right walkway only — the left notch falls between floor-leg brackets, no beam under it. Tied to the
+# muslin-notch constants so the crank can't drift from the notch it clears.
+RWK_CRANK_N0   = WALKWAY_MUSLIN_NOTCH_YD0                              # 1912 — notch Yd start
+RWK_CRANK_N1   = WALKWAY_MUSLIN_NOTCH_YD0 + WALKWAY_MUSLIN_NOTCH_DY    # 2062 — notch Yd end
+RWK_CRANK_DX   = WALKWAY_MUSLIN_NOTCH_R_X1 - WALKWAY_MUSLIN_NOTCH_R_X0 # 100 — jog = notch depth (clears the full notch)
+RWK_CRANK_RAMP = 100                                                  # angled ramp Yd length each side
+RWK_CRANK_Y0   = RWK_CRANK_N0 - RWK_CRANK_RAMP                        # 1812 — ramp-out start
+RWK_CRANK_Y1   = RWK_CRANK_N1 + RWK_CRANK_RAMP                        # 2162 — ramp-in end
+
 # Open processing area (center, clear of walkways):
 PROC_OPEN_X_L  = WALKWAY_LEFT_X + WALKWAY_W   # = 470mm
 PROC_OPEN_X_R  = WALKWAY_RIGHT_X              # = 4329mm

diff --git a/RELEASE.md b/RELEASE.md
@@ -24,6 +24,15 @@ file** — a release must not ship without a changelog entry:
 
 ## [Unreleased]
 
+- **Walkway blueprint — Phase 1.1: `RWK_*` promoted to `tbs_constants.py` (branch `walkway-bp`).** The
+  right-walkway geometry family (26 constants: `RWK_X_L/R`, `RWK_ARM_*`, `RWK_BEARER_*`, `RWK_HL_*`,
+  `RWK_X_UP`, `RWK_J6_*`, `RWK_RIBBON_NOTCH_*`, `RWK_CRANK_*`) moved out of `generate_sketchup_model.py`
+  into the shared constants so the 2D fab drawings dimension the right walkway from the SAME source as
+  the 3D builder (models byte-identical → no re-send). Repointing `generate_walkway_diagram.py` to them
+  surfaced + fixed real drift on **sheet 3** (right-walkway plan): wrong beam section (was "40×40×3 SHS",
+  is **2×1in tube / flat bar**, 50.8×25.4), wrong deck width (was 300, is the F1 **245**), and the outer
+  beam / end beams now sit model-accurate (outer flush-right-inboard at X4574, end beams butted between).
+  Sheet 1's RIGHT-WALKWAY width label + notes reconciled to 245 / 2×1in.
 - **Walkway F1 → water re-route (branch `walkway-bp`).** Shortening the right walkway (F1) moved the outer
   long beam inboard into the under-walkway pipe channel. Fixed the two clashes it caused: **#1** the 4 ribbon
   lanes (`RIBBON_LANE_X`) were hardcoded for the old wider channel — now **derived** from the inner-outboard..
